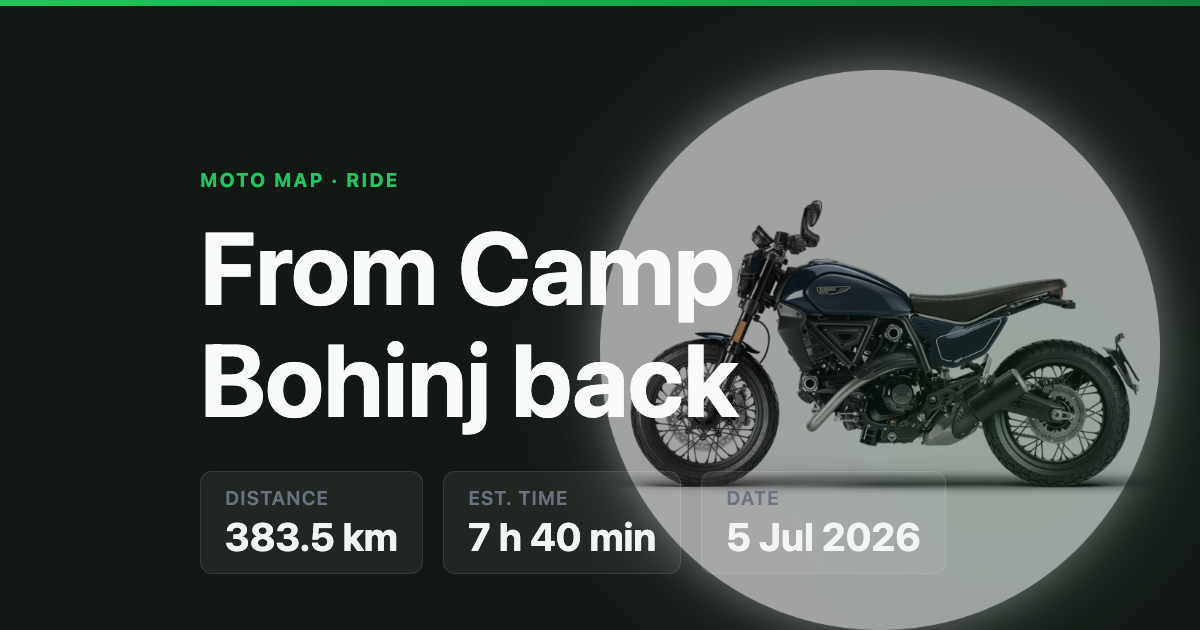
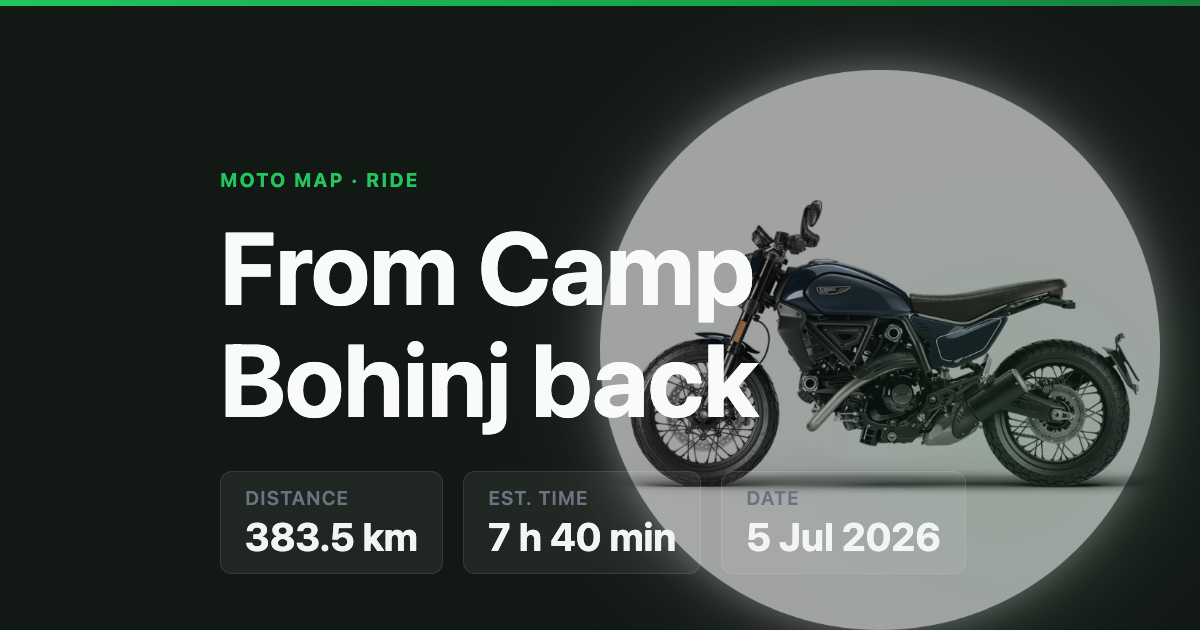
[UPDATE] adjust padding in OG image layout for improved visual consistency

diff --git a/scripts/generate-og-images.js b/scripts/generate-og-images.js
@@ -140,7 +140,7 @@ function buildHtml({ title, distanceFmt, durationFmt, dateFmt, isSiteDefault, mo
     flex-direction: column;
     /* Text/content pinned to the bottom */
     justify-content: flex-end;
-    padding: 56px 200px;
+    padding: 56px 220px;
     overflow: hidden;
   }
   /* top accent bar — sits above moto image (z-index via stacking context) */
